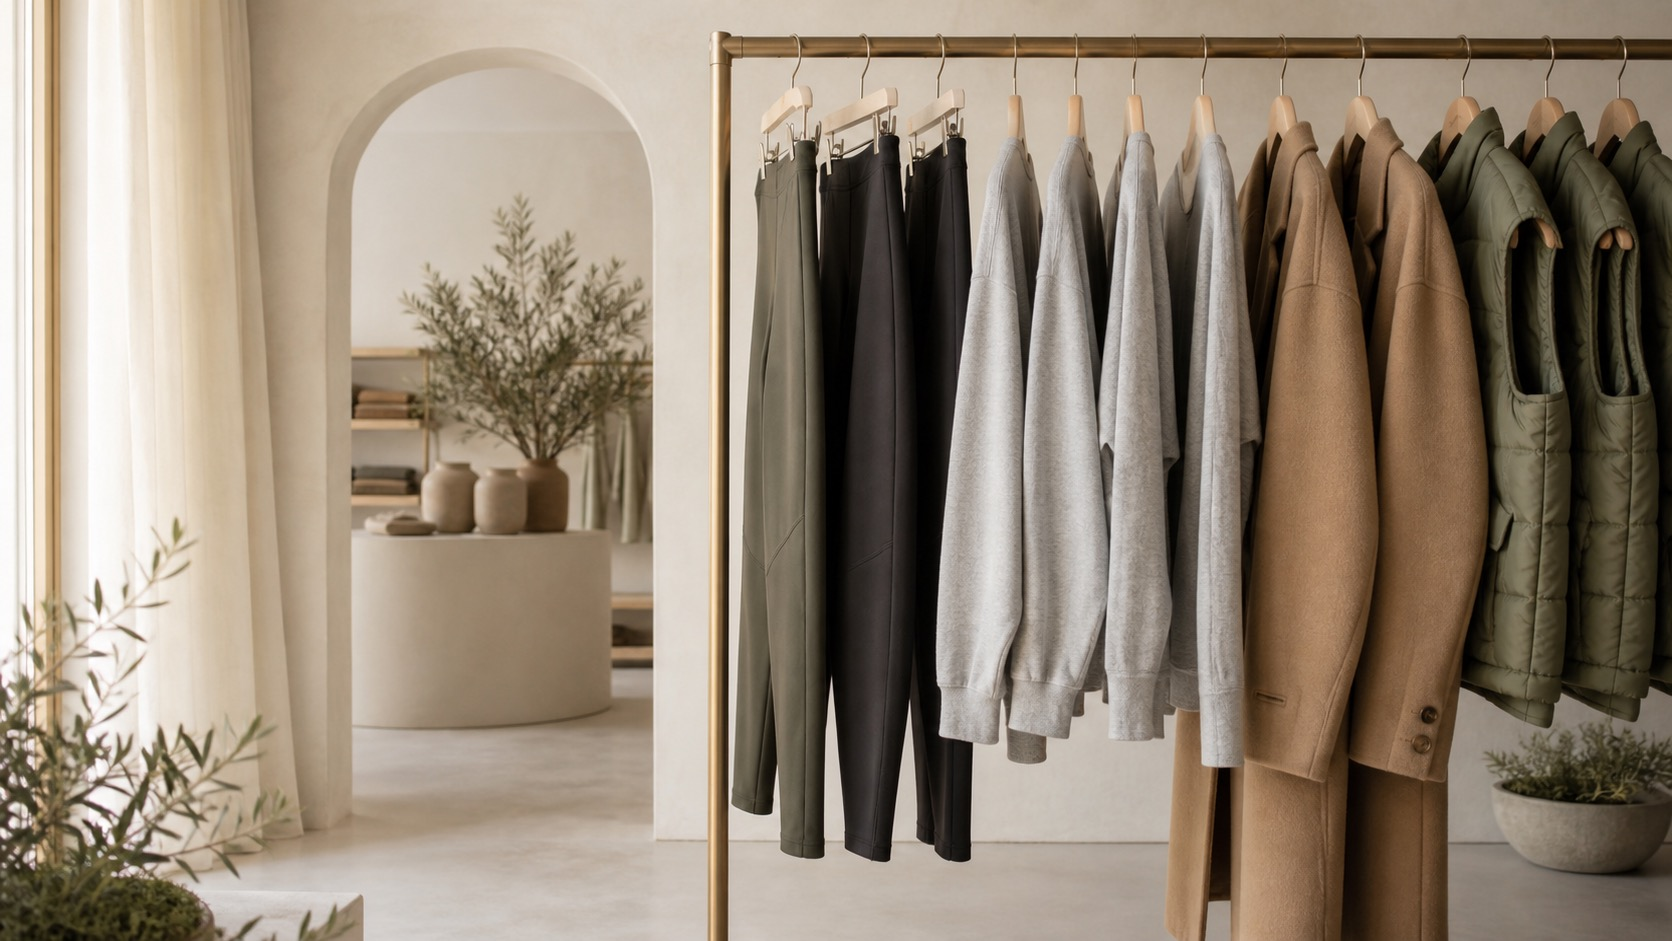
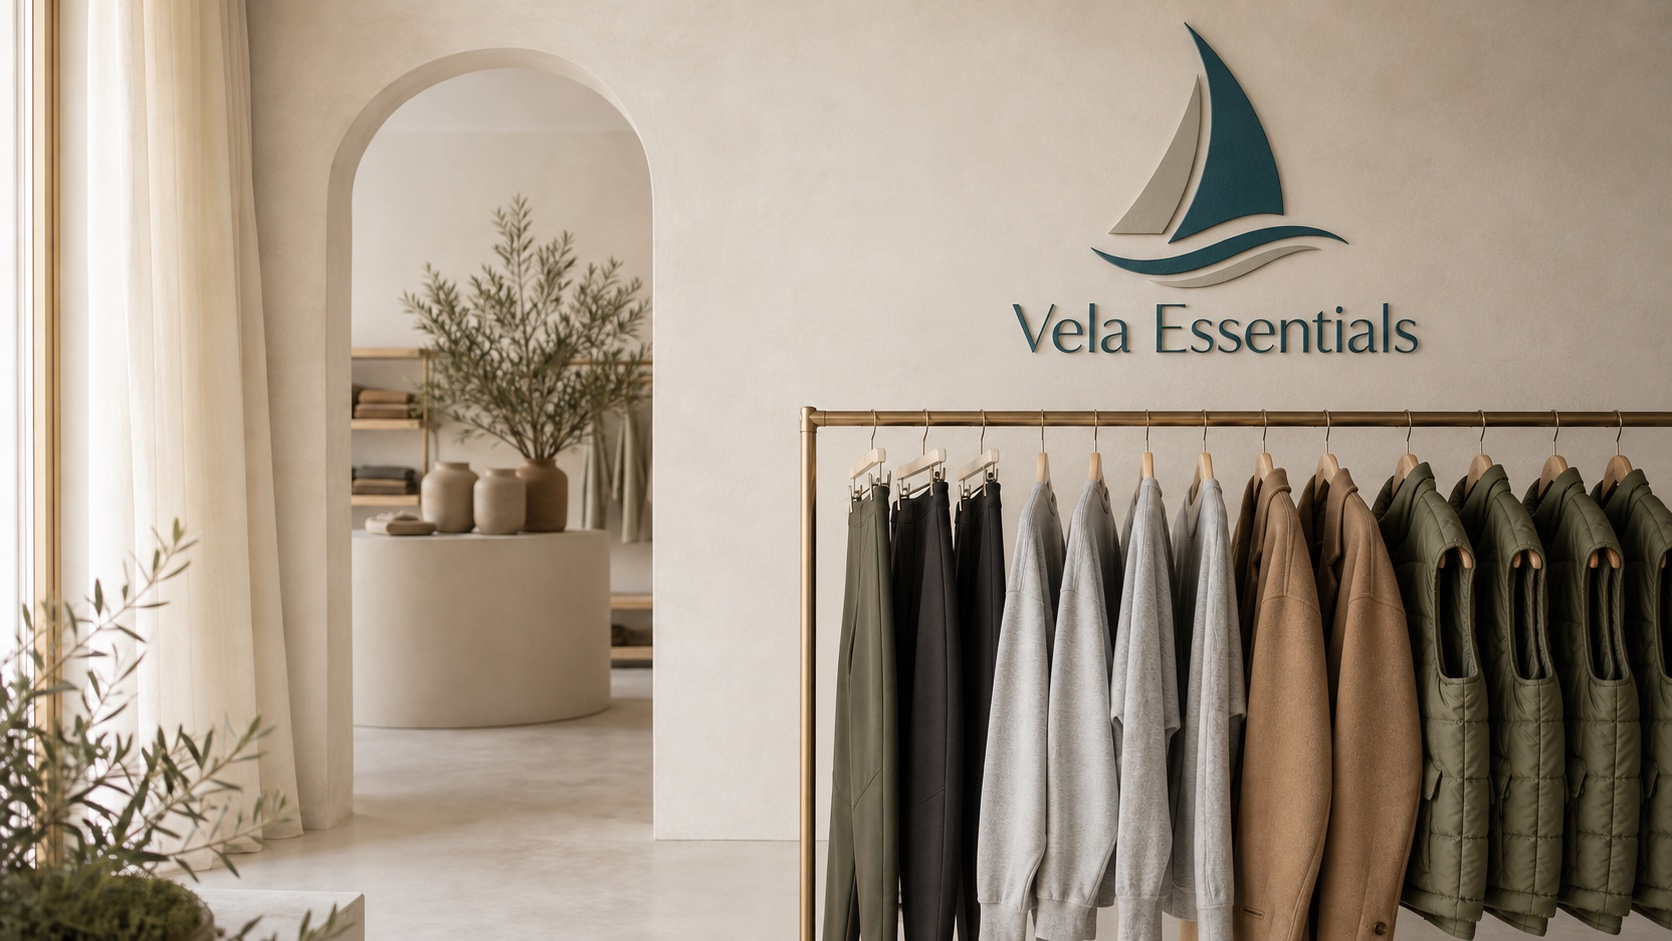
Fix audience navigation and brand UAT seller covers

diff --git a/src/features/marketplace/components/marketplace-navigation.test.tsx b/src/features/marketplace/components/marketplace-navigation.test.tsx
@@ -246,7 +246,7 @@ describe("MarketplaceNavigation", () => {
     expect(within(kesarLink).getByText("K")).toBeVisible();
   });
 
-  it("keeps the current route and language when the audience changes", async () => {
+  it("opens the selected audience home and preserves language", async () => {
     const user = userEvent.setup();
     render(<MarketplaceNavigation audience="women" />);
 
@@ -256,10 +256,28 @@ describe("MarketplaceNavigation", () => {
       to: string;
       search: (previous: Record<string, unknown>) => Record<string, unknown>;
     };
-    expect(request.to).toBe(".");
-    expect(request.search({ lang: "DE", audience: "women" })).toEqual({
+    expect(request.to).toBe("/");
+    expect(request.search({ lang: "DE", audience: "women", promotion: "old" })).toEqual({
       lang: "DE",
       audience: "men",
+    });
+  });
+
+  it("uses the active audience control to return to its marketplace home", async () => {
+    const user = userEvent.setup();
+    render(<MarketplaceNavigation audience="women" />);
+
+    await user.click(screen.getByRole("button", { name: "Women" }));
+
+    expect(mocks.navigate).toHaveBeenCalledOnce();
+    const request = mocks.navigate.mock.calls[0]?.[0] as {
+      to: string;
+      search: (previous: Record<string, unknown>) => Record<string, unknown>;
+    };
+    expect(request.to).toBe("/");
+    expect(request.search({ lang: "PL", audience: "women" })).toEqual({
+      lang: "PL",
+      audience: "women",
     });
   });
 

diff --git a/src/features/admin/server/uat-marketplace-fixtures.workflow.test.ts b/src/features/admin/server/uat-marketplace-fixtures.workflow.test.ts
@@ -29,7 +29,7 @@ describe("UAT marketplace fixture workflow", () => {
 
     expect(result).toEqual({
       assetCount: 28,
-      bundleVersion: "0038d-v1",
+      bundleVersion: "0038d-v2",
       commit,
       operation: "verify",
       projectRef,
@@ -97,7 +97,7 @@ describe("UAT marketplace fixture workflow", () => {
     });
 
     expect(summary).toMatchObject({
-      bundleVersion: "0038d-v1",
+      bundleVersion: "0038d-v2",
       productCount: 16,
       publicImageCount: 20,
       sellerCount: 4,

diff --git a/src/features/marketplace/components/marketplace-navigation.tsx b/src/features/marketplace/components/marketplace-navigation.tsx
@@ -121,12 +121,11 @@ export function MarketplaceNavigation({ audience }: { audience: PublicAudience }
   };
 
   const changeAudience = (nextAudience: PublicAudience) => {
-    if (nextAudience === audience) return;
     setOpenPanel(null);
     void navigate({
-      to: ".",
+      to: "/",
       search: (previous: Record<string, unknown>) => ({
-        ...previous,
+        lang: previous.lang,
         audience: nextAudience,
       }),
     });

diff --git a/src/features/admin/server/uat-marketplace-fixtures.manifest.ts b/src/features/admin/server/uat-marketplace-fixtures.manifest.ts
@@ -26,7 +26,7 @@ export type UatMarketplaceSellerFixture = {
   slug: string;
 };
 
-export const UAT_MARKETPLACE_FIXTURE_BUNDLE_VERSION = "0038d-v1";
+export const UAT_MARKETPLACE_FIXTURE_BUNDLE_VERSION = "0038d-v2";
 
 export const UAT_MARKETPLACE_SELLERS: readonly UatMarketplaceSellerFixture[] = [
   {

diff --git a/tickets/0039c-responsive-clothing-and-seller-navigation.md b/tickets/0039c-responsive-clothing-and-seller-navigation.md
@@ -47,7 +47,8 @@ with `aria-expanded` and `aria-controls`; panels have stable accessible labels.
 ## Navigation Contract
 
 - Selecting an audience updates the normalized public `audience` search
-  parameter without discarding `lang`.
+  parameter without discarding `lang` and navigates to the marketplace home
+  route.
 - Category links preserve selected audience and language.
 - Seller links preserve selected audience and language.
 - Empty Clothing or Sellers results show a compact localized empty state rather
@@ -55,9 +56,11 @@ with `aria-expanded` and `aria-controls`; panels have stable accessible labels.
 - Audience, Clothing, Sellers, empty-state, and category labels use the shared
   localization contract from `0039b`; the canonical database category name is
   only a fallback.
-- Changing audience while already on a category or seller route keeps the route
-  and displays that audience's results, including a successful empty state when
-  there are no matches.
+- Audience controls are top-level marketplace destinations. Selecting Women,
+  Men, Kids, or All from a category, seller, or product route clears that route
+  context and opens the marketplace home for the selected audience. Selecting
+  the already-active audience has the same behavior, so it can be used to
+  return to that audience's marketplace home.
 
 ## Non-Goals
 
@@ -97,9 +100,9 @@ with `aria-expanded` and `aria-controls`; panels have stable accessible labels.
   generic error pages do not depend on catalog reads. The branded seller
   storefront header uses the same component so audience changes remain
   available on seller routes.
-- Added pointer, keyboard, click, touch, outside-press, Escape, focus-restoration,
-  empty-state, route-preservation, and failed-logo behavior. Missing or failed
-  seller logos render stable initials.
+- Added pointer, keyboard, click, touch, outside-press, Escape,
+  focus-restoration, empty-state, top-level audience navigation, and failed-logo
+  behavior. Missing or failed seller logos render stable initials.
 - Public homepage, category, seller, and product loaders prefetch the bounded
   audience-navigation snapshot alongside their page data.
 - Focused navigation and shell tests passed. The full website suite passed with

diff --git a/tickets/0039c1-uat-marketplace-fixtures.md b/tickets/0039c1-uat-marketplace-fixtures.md
@@ -123,6 +123,10 @@ invariants with raw published-row insertion.
 
 - Generate original synthetic catalog photographs and seller branding for this
   fixture set. Do not hotlink third-party product images.
+- Each storefront cover must incorporate that fixture seller's own logo mark
+  and exact seller name as part of the showroom scene. Keep the left side clear
+  enough for the storefront's live heading and actions, and place the embedded
+  branding on the right so it remains distinct from the dynamic page content.
 - The repository has no dedicated seller-media bucket. Store generated UAT
   seller logos and covers in the existing public `product-images` bucket under
   `uat-marketplace-fixtures/sellers/{sellerSlug}/...`. This is a fixture-only
@@ -250,6 +254,8 @@ complete and is used after the guarded hosted UAT reset.
 - Added guarded reset, seed, and verify commands in `catalog-website`.
 - Generated and uploaded 28 original JPEG assets: four logos, four storefront
   covers, and twenty product-gallery images.
+- Updated fixture bundle `0038d-v2` with four branded storefront covers that
+  pair each seller's existing showroom scene with its own logo and exact name.
 - The first complete seed removed four disposable sellers and created the four
   fixture sellers, sixteen published products, and twenty public product-image
   rows.
